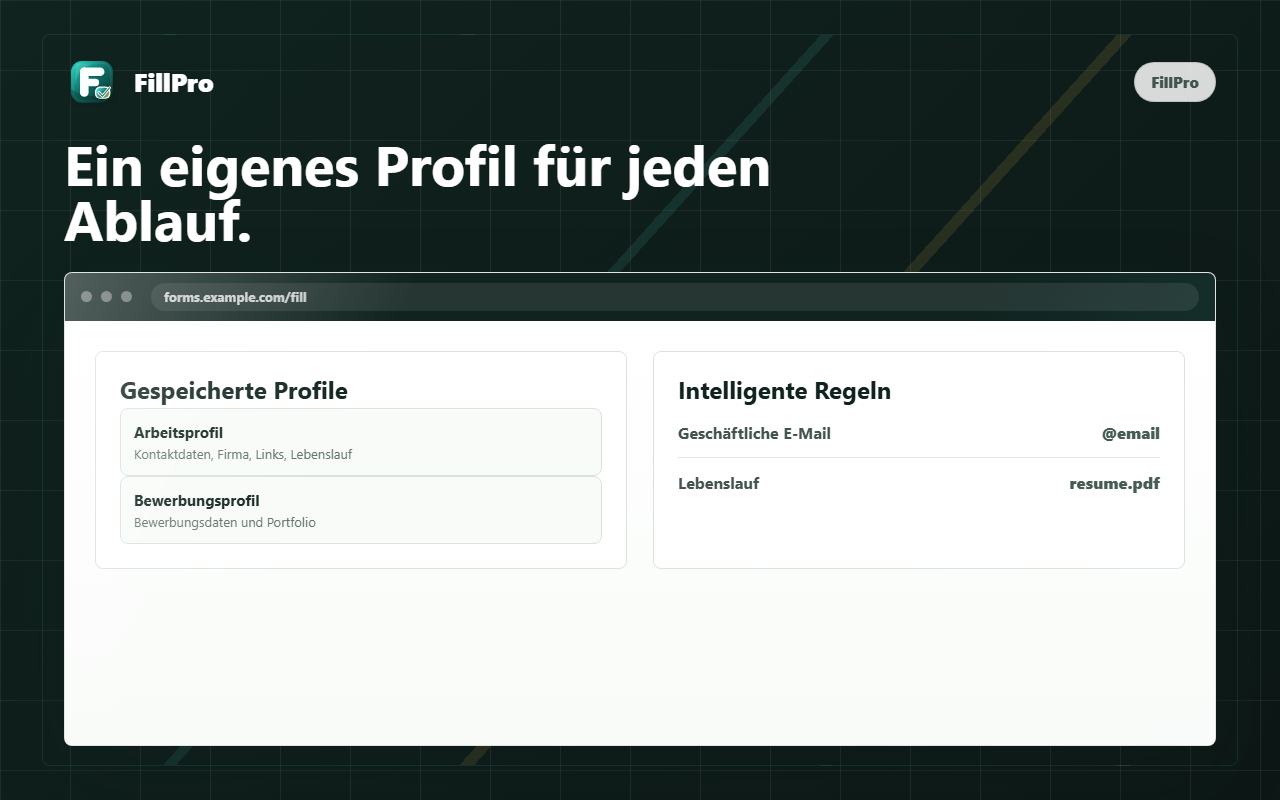
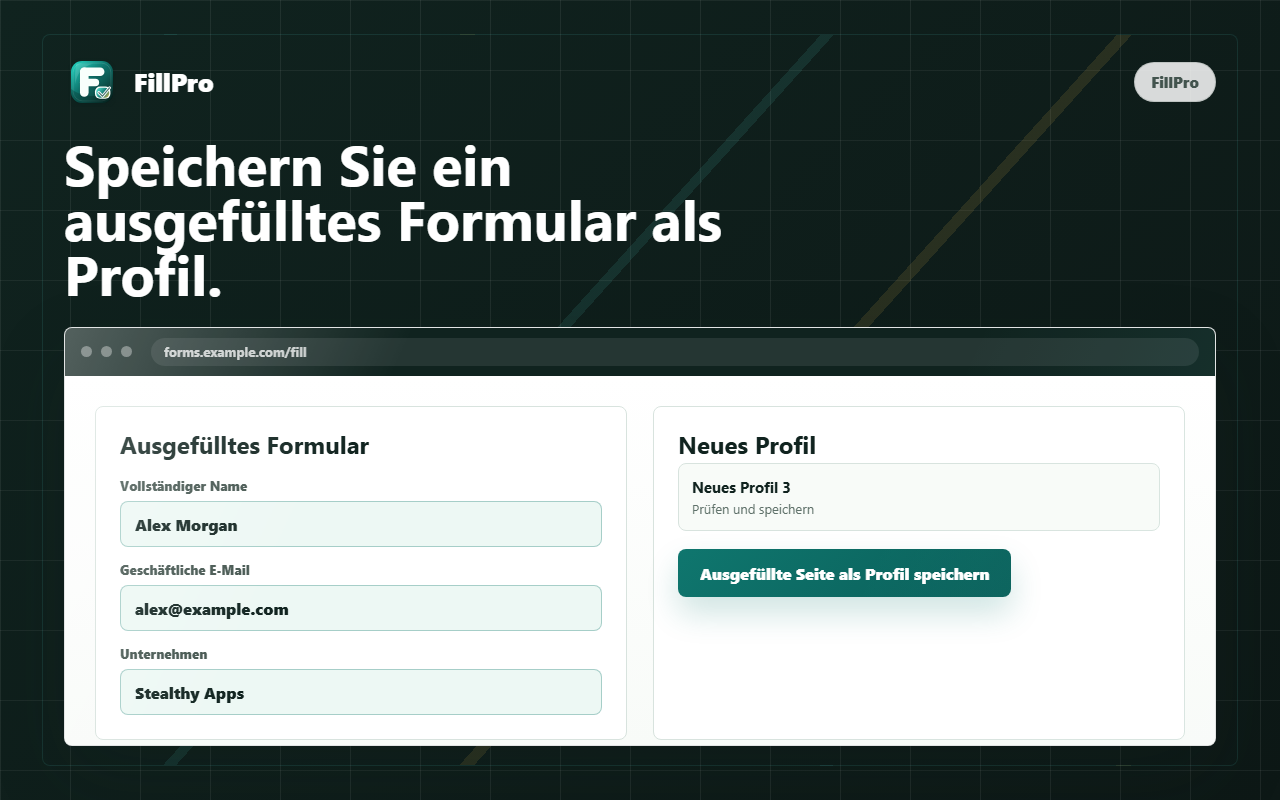
Refresh FillPro capture marketing assets

diff --git a/scripts/render-fillpro-assets.js b/scripts/render-fillpro-assets.js
@@ -938,22 +938,22 @@ async function renderStaticAssets(browser) {
     1280,
     800,
     `<main class="stage dark shot-profiles">
-      <div class="topline"><div class="brand"><img src="${logoDataUrl}" alt="">FillPro</div><span class="pill">Up to 500 with Pro</span></div>
-      <div><h1>Keep each workflow in its own profile.</h1><p class="sub">Switch between work, applicant, client, and QA details without mixing them together.</p></div>
+      <div class="topline"><div class="brand"><img src="${logoDataUrl}" alt="">FillPro</div><span class="pill">Save what you entered</span></div>
+      <div><h1>Turn a filled form into a reusable profile.</h1><p class="sub">Keep what you already entered, review it once, and use it on the next form.</p></div>
       ${chromeFrame('forms.example.com/demo-request', `
         <div class="grid2">
-          <div class="panel">
-            <h2>Saved profiles</h2>
-            <div class="profile"><strong>Work profile</strong><span>Contact, company, links, resume</span></div>
-            <div class="profile"><strong>Vendor profile</strong><span>Business details and service copy</span></div>
-            <div class="profile"><strong>QA profile</strong><span>Known test values for repeat checks</span></div>
+          <div class="form">
+            <h2>Form already filled</h2>
+            ${field('Full name', 'Alex Morgan')}
+            ${field('Work email', 'alex@example.com')}
+            ${field('Company', 'Stealthy Apps')}
           </div>
           <div class="panel">
-            <h2>Smart rules</h2>
-            <div class="cardline"><span>Applicant handle</span><strong>@github</strong></div>
-            <div class="cardline"><span>Primary inbox</span><strong>@email</strong></div>
-            <div class="cardline"><span>Resume field</span><strong>resume.pdf</strong></div>
-            <div class="button" style="margin-top:18px;">Fill with Work profile</div>
+            <h2>New FillPro profile</h2>
+            <div class="profile"><strong>Profile 3</strong><span>3 supported values found</span></div>
+            <div class="cardline"><span>Review first</span><strong>You choose what stays</strong></div>
+            <div class="cardline"><span>Next form</span><strong>Ready to reuse</strong></div>
+            <div class="button" style="margin-top:18px;">Save this filled page</div>
           </div>
         </div>`)}
     </main>`,
@@ -1125,7 +1125,7 @@ async function renderLocalizedFirstScreenshots(browser) {
     );
 
     const localizedScenes = [
-      ['profiles', copy.profilesHeadline, `<div class="grid2"><div class="panel"><h2>${ui.savedProfiles}</h2><div class="profile"><strong>${ui.workProfile}</strong><span>${ui.profileContents}</span></div><div class="profile"><strong>${ui.applicantProfile}</strong><span>${ui.applicantContents}</span></div></div><div class="panel"><h2>${ui.smartRules}</h2><div class="cardline"><span>${ui.workEmail}</span><strong>@email</strong></div><div class="cardline"><span>${ui.resume}</span><strong>resume.pdf</strong></div></div></div>`],
+      ['profiles', copy.captureHeadline, `<div class="grid2"><div class="form"><h2>${ui.filledPage}</h2>${field(ui.fullName, 'Alex Morgan')}${field(ui.workEmail, 'alex@example.com')}${field(ui.company, 'Stealthy Apps')}</div><div class="panel"><h2>${ui.newProfile}</h2><div class="profile"><strong>${ui.newProfile} 3</strong><span>${ui.reviewAndSave}</span></div><div class="button" style="margin-top:18px;">${ui.saveFilledPage}</div></div></div>`],
       ['modern-forms', copy.modernHeadline, `<div class="grid2"><div class="form"><h2>${ui.intakeForm}</h2>${field(ui.fullName, 'Alex Morgan')}${field(ui.preferredContact, ui.email)}${field(ui.resume, 'alex-morgan.pdf')}</div><div class="panel"><h2>${ui.modernControls}</h2><div class="field-grid"><div class="field-tile"><strong>${ui.dropdowns}</strong><span>${ui.matchedFromProfile}</span></div><div class="field-tile"><strong>${ui.checkboxes}</strong><span>${ui.matchedFromProfile}</span></div><div class="field-tile"><strong>${ui.lateFields}</strong><span>${ui.readyForReview}</span></div></div></div></div>`],
       ['privacy', copy.privacyHeadline, `<div class="privacy-proof"><div class="privacy-grid"><div class="privacy-card"><strong>${ui.profileStorage}</strong><span>${ui.savedByExtension}</span></div><div class="privacy-card"><strong>${ui.pageAccess}</strong><span>${ui.runsOnChosenPage}</span></div><div class="privacy-card"><strong>${ui.finalSay}</strong><span>${ui.youReviewSubmit}</span></div></div><div class="privacy-ledger"><h2>${ui.clearControl}</h2><div class="privacy-row"><span>${ui.fillAction}</span><strong>${ui.yourClick}</strong></div><div class="privacy-row"><span>${ui.formSubmission}</span><strong>${ui.yourDecision}</strong></div></div></div>`],
       ['undo', copy.undoHeadline, `<div class="review-proof review-proof-light"><div class="review-form"><h2>${ui.reviewBeforeSubmit}</h2><div class="review-row"><span>${ui.fullName}</span><strong>Alex Morgan</strong></div><div class="review-row"><span>${ui.portfolio}</span><strong>stealthyapps.com</strong></div><div class="review-row"><span>${ui.resume}</span><strong>alex-morgan.pdf</strong></div></div><div class="review-stack"><div class="review-card accent"><strong>${ui.fieldsChanged}</strong><span>${ui.readyForReview}</span></div><div class="review-card"><strong>${ui.undoAvailable}</strong><span>${ui.rollbackWithoutReload}</span></div><div class="button" style="width:100%;">${ui.undoLastFill}</div></div></div>`],

diff --git a/scripts/audit-fillpro-marketing-assets.js b/scripts/audit-fillpro-marketing-assets.js
@@ -76,6 +76,7 @@ function checkLocalizedScreenshotCopy() {
     'headline',
     'intro',
     'profilesHeadline',
+    'captureHeadline',
     'modernHeadline',
     'privacyHeadline',
     'undoHeadline',
@@ -86,6 +87,10 @@ function checkLocalizedScreenshotCopy() {
     'workProfile',
     'profileDetail',
     'fillPage',
+    'filledPage',
+    'saveFilledPage',
+    'newProfile',
+    'reviewAndSave',
     'undoLastFill',
     'fullName',
     'workEmail',
@@ -505,7 +510,8 @@ function checkStillRenderer() {
     'fillpro-marquee-1400x560.png',
     'Fill the fields you keep retyping.',
     'Choose a saved profile, fill the page, then review before you submit.',
-    'Keep each workflow in its own profile.',
+    'Turn a filled form into a reusable profile.',
+    'Save this filled page',
     'Fill the controls basic autofill skips.',
     'Review the fill. Undo it if needed.',
     'Roll the last FillPro changes back without reloading the page.',

diff --git a/scripts/render-fillpro-review-sheets.js b/scripts/render-fillpro-review-sheets.js
@@ -109,7 +109,7 @@ async function renderMarketingSheet() {
   const items = [
     ['Screenshot 1', 'Main promise', marketplace('fillpro-screenshot-fill-page-1280x800.png')],
     ['Screenshot 2', 'Modern controls', marketplace('fillpro-screenshot-modern-forms-1280x800.png')],
-    ['Screenshot 3', 'Profiles and rules', marketplace('fillpro-screenshot-profiles-1280x800.png')],
+    ['Screenshot 3', 'Capture a filled page', marketplace('fillpro-screenshot-profiles-1280x800.png')],
     ['Screenshot 4', 'Privacy proof', marketplace('fillpro-screenshot-privacy-1280x800.png')],
     ['Screenshot 5', 'Undo and recovery', marketplace('fillpro-screenshot-undo-1280x800.png')],
     ['Small promo', 'Chrome compact tile', marketplace('fillpro-small-promo-440x280.png')],
